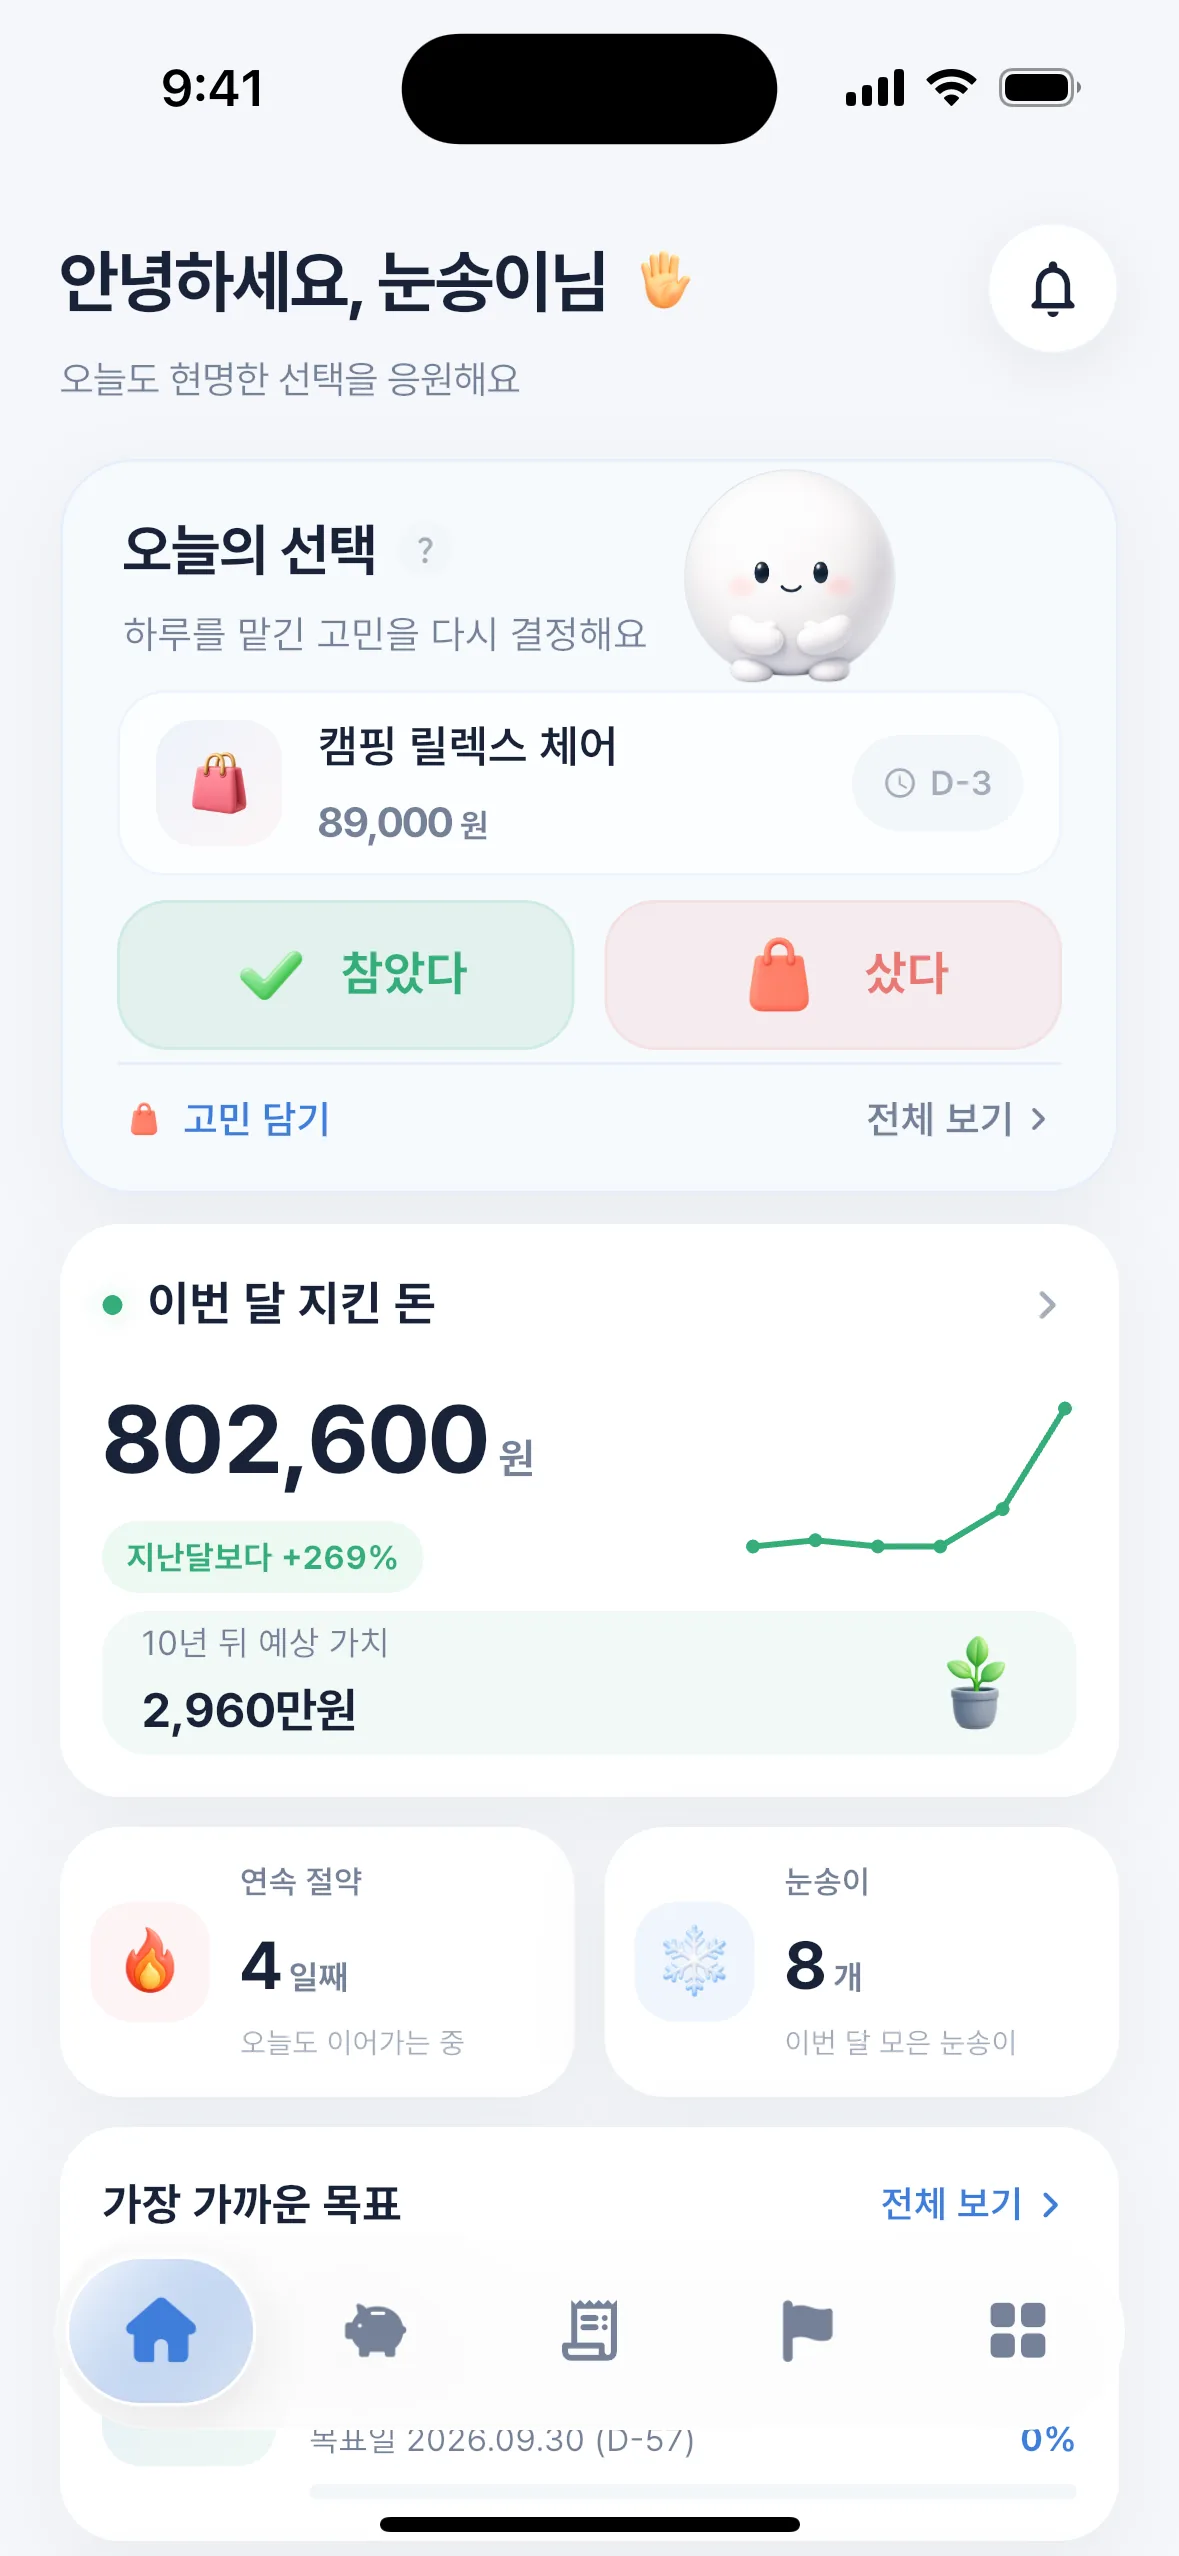
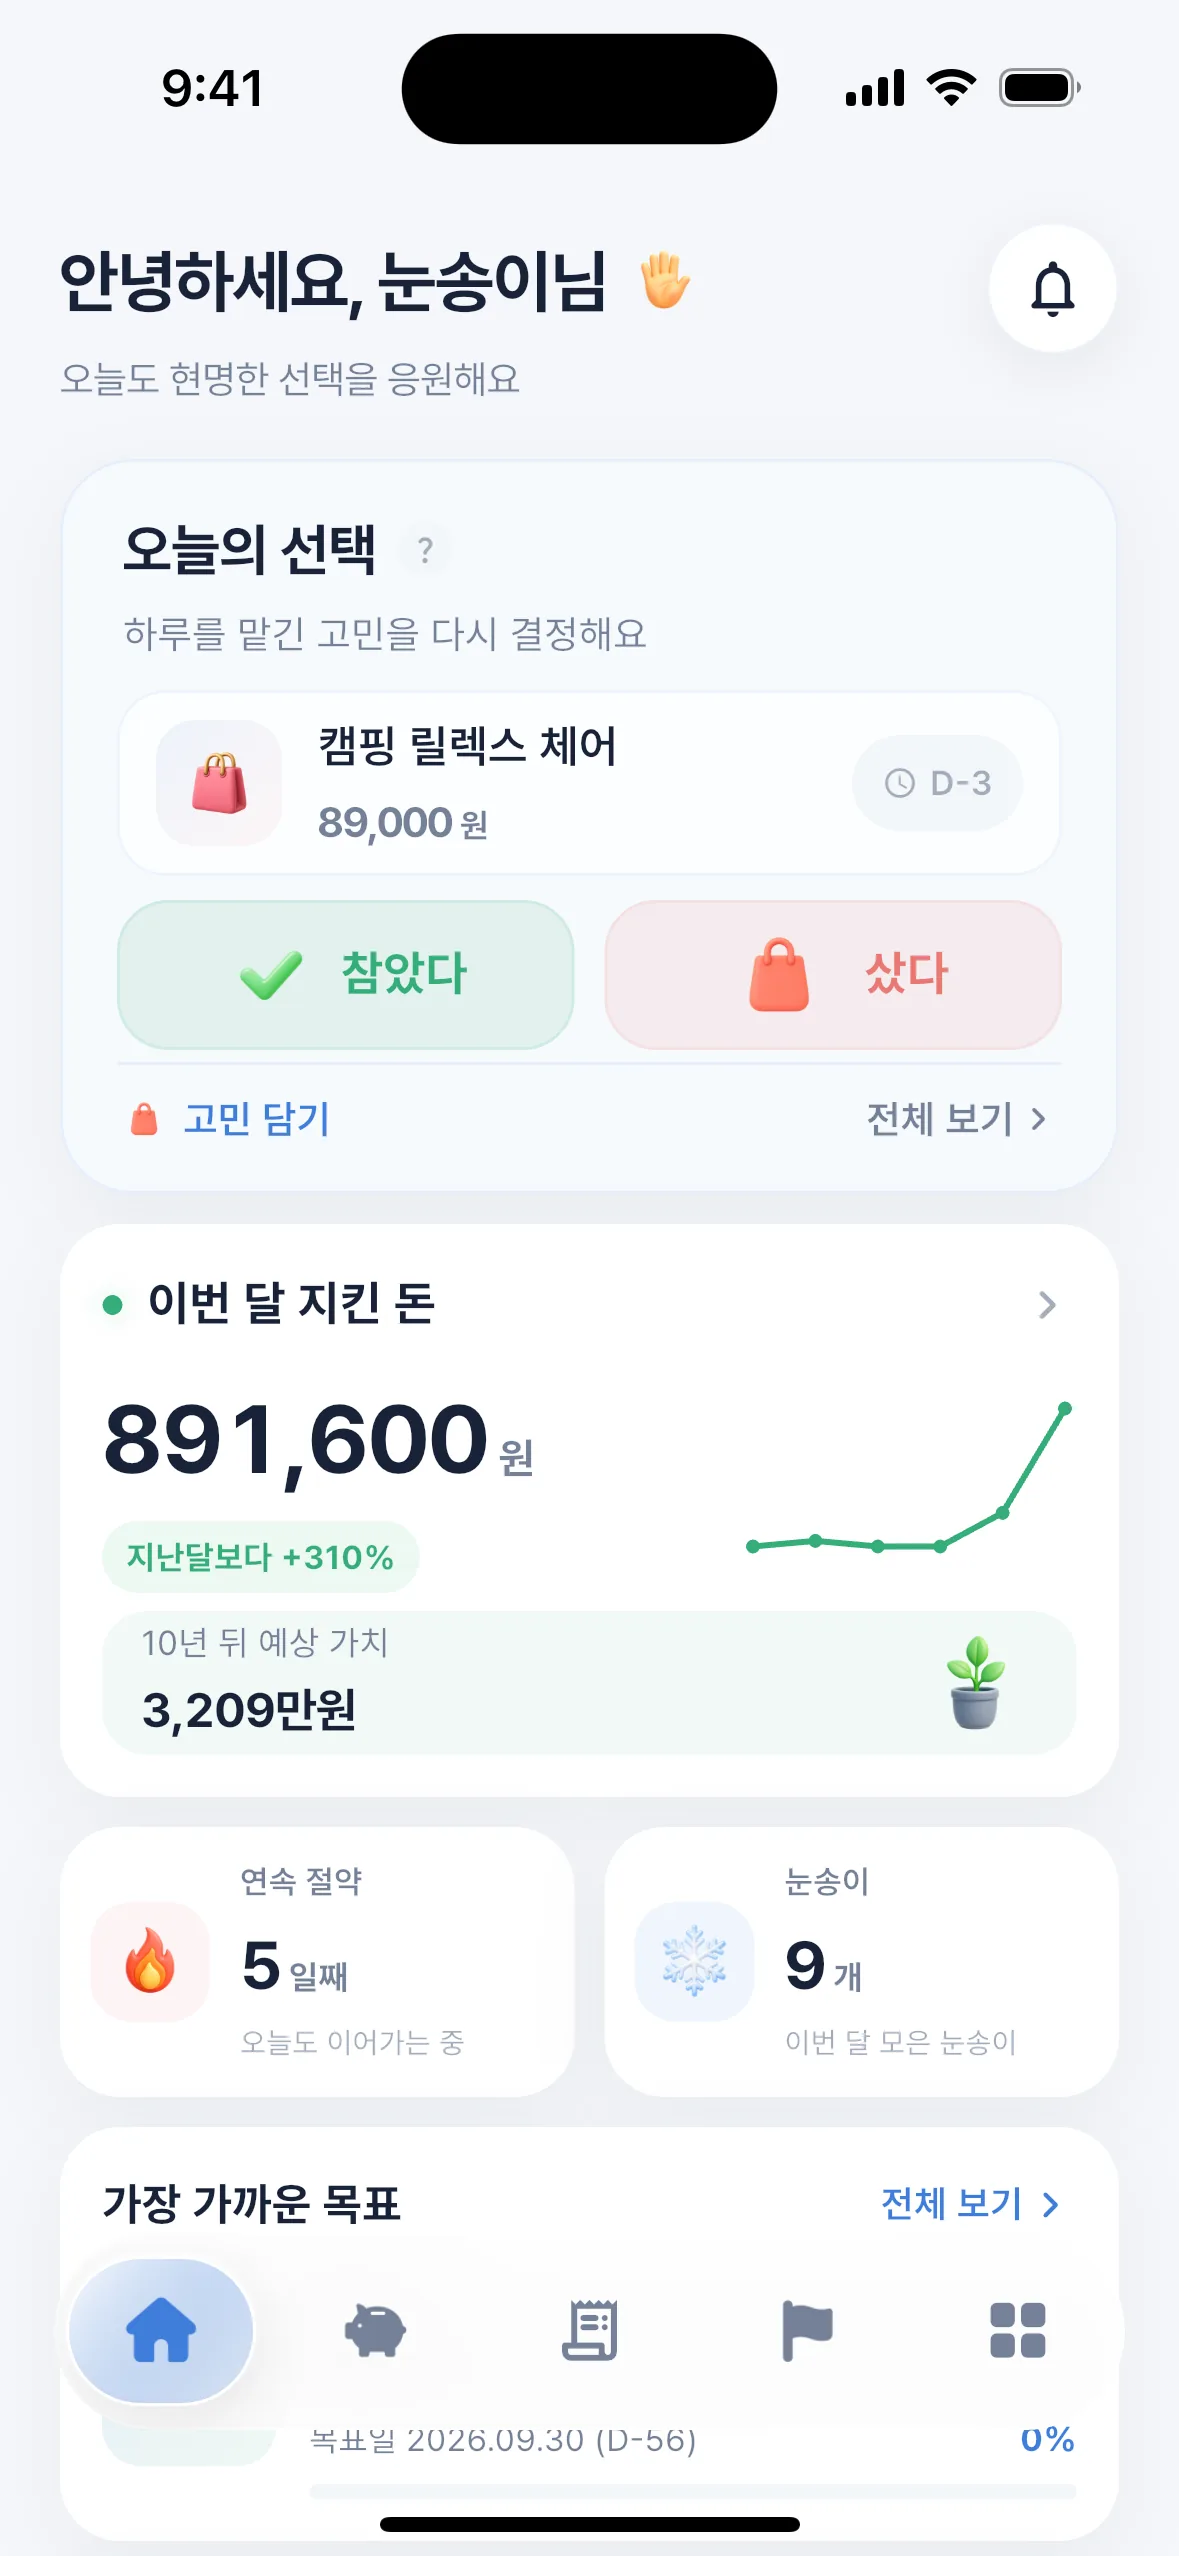
feat: 랜딩 v1.4.0 — 공유 가계부 SHARE 카드 + 실캡처 갱신
- journey 4번째 카드 SHARE(피치 톤 신설): 초대코드·지출수입 합산·기록 알림,
  2인 장부 실캡처(멤버 칩·귀속 뱃지, 초대코드는 블러)
- RECORD 카드: '어제 스벅 6500 카드' 자연어·수입·결제수단 반영
- 히어로 대시보드 재캡처 (오늘의 선택 마스코트 제거 반영)
- 버전 문구·메타·JSON-LD 전부 1.4.0

diff --git a/landing.jsx b/landing.jsx
@@ -1,4 +1,4 @@
-// landing.jsx — 눈덩이 v1.3.0 editorial landing page
+// landing.jsx — 눈덩이 v1.4.0 editorial landing page
 
 const V2_ASSET = 'assets/images/v2';
 
@@ -44,7 +44,7 @@ function StoreBadge({ kind, where = 'unknown', light = false }) {
   );
 }
 
-function VersionPill({ children = 'v1.3.0 · 지금 사용 가능', dark = false }) {
+function VersionPill({ children = 'v1.4.0 · 지금 사용 가능', dark = false }) {
   return <span className={`version-pill ${dark ? 'is-dark' : ''}`}><i aria-hidden="true" />{children}</span>;
 }
 
@@ -125,10 +125,10 @@ function Hero() {
           </div>
         </div>
 
-        <div className="hero-stage" aria-label="눈덩이 v1.3.0 홈 화면">
+        <div className="hero-stage" aria-label="눈덩이 v1.4.0 홈 화면">
           <PhoneShot
             src="dashboard-iphone15pro.webp"
-            alt="실제 아이폰에서 실행 중인 눈덩이 v1.3.0 홈 대시보드"
+            alt="실제 아이폰에서 실행 중인 눈덩이 v1.4.0 홈 대시보드"
             eager
             nativeStatusBar
             className="hero-phone"
@@ -162,8 +162,8 @@ const JOURNEY = [
     step: '02',
     label: 'RECORD',
     title: <>쓴 돈도 지킨 돈도,<br />가볍게 한 줄로.</>,
-    description: '복잡한 가계부 대신 말하듯 기록하세요. 예산과 소비 흐름은 눈덩이가 보기 쉽게 모아드려요.',
-    tags: ['한 줄 지출', '예산 · 고정지출', '달력 · 소비 인사이트'],
+    description: '"어제 스벅 6500 카드"처럼 말하듯 기록하세요. 수입까지 더해 예산과 소비 흐름을 한눈에 모아드려요.',
+    tags: ['한 줄 입력 · 결제수단', '수입 · 예산 · 고정지출', '달력 · 소비 인사이트'],
     image: 'expense-insight.webp',
     alt: '월 지출과 소비 흐름을 보여주는 인사이트 화면',
     tone: 'mint',
@@ -178,6 +178,16 @@ const JOURNEY = [
     alt: '절약한 돈의 미래 가치를 계산하는 시뮬레이터 화면',
     tone: 'lavender',
   },
+  {
+    step: '04',
+    label: 'SHARE',
+    title: <>가계부는,<br />같이 쓸 때 완성.</>,
+    description: '초대코드 하나로 커플·가족이 지출과 수입을 한 장부에 모아요. 누가 기록하면 서로의 폰에 알림이 도착해요.',
+    tags: ['초대코드 입장', '지출 · 수입 합산', '기록 알림'],
+    image: 'ledger.webp',
+    alt: '커플이 함께 쓰는 공유 가계부 화면',
+    tone: 'peach',
+  },
 ];
 
 function V2Showcase() {
@@ -186,8 +196,8 @@ function V2Showcase() {
       <div className="section-inner">
         <SectionHeader
           eyebrow="ONE BETTER FLOW"
-          title={<>마음을 다그치지 않고,<br />선택을 바꾸는 세 장면.</>}
-          description="눈덩이는 무조건 아끼라고 말하지 않아요. 한 번 더 생각하고, 선명하게 기록하고, 더 먼 미래와 비교하도록 돕습니다."
+          title={<>마음을 다그치지 않고,<br />선택을 바꾸는 네 장면.</>}
+          description="눈덩이는 무조건 아끼라고 말하지 않아요. 한 번 더 생각하고, 선명하게 기록하고, 더 먼 미래와 비교하고, 함께 씁니다."
         />
         <div className="journey-list">
           {JOURNEY.map((item, index) => (
@@ -243,7 +253,7 @@ function ExpensePreview() {
     <section id="quick" className="section quick-section">
       <div className="section-inner quick-grid">
         <div className="quick-copy">
-          <VersionPill dark>v1.3.0 · 더 빨라진 기록</VersionPill>
+          <VersionPill dark>v1.4.0 · 더 빨라진 기록</VersionPill>
           <p className="eyebrow">QUICK INPUT</p>
           <h2>생각이 사라지기 전에,<br />바로 남기세요.</h2>
           <p className="quick-lead">
@@ -316,8 +326,8 @@ function FAQ() {
       a: '사고 싶은 게 생겼을 때 잠시 맡겨두고 다시 결정하는 소비 습관 앱입니다. 참아낸 소비는 절약 기록과 미래 가치로 이어지고, 지출·목표·시뮬레이터·에코 커뮤니티를 함께 제공합니다.',
     },
     {
-      q: 'v1.3.0은 지금 바로 사용할 수 있나요?',
-      a: '네. v1.3.0이 App Store와 Google Play에 배포 완료되었습니다. 각 스토어에서 최신 버전으로 업데이트해 사용할 수 있습니다.',
+      q: 'v1.4.0은 지금 바로 사용할 수 있나요?',
+      a: '네. v1.4.0이 App Store와 Google Play에 배포 완료되었습니다. 각 스토어에서 최신 버전으로 업데이트해 사용할 수 있습니다.',
     },
     {
       q: '소비를 못 하게 막는 앱인가요?',
@@ -417,7 +427,7 @@ function Footer() {
             <span><strong>눈덩이</strong><small>snowball.</small></span>
           </a>
           <p>오늘의 소비를 미래의 선택과 비교하는 소비 습관 플래너.</p>
-          <span className="footer-version">APP VERSION 1.3.0</span>
+          <span className="footer-version">APP VERSION 1.4.0</span>
         </div>
         <FooterColumn title="둘러보기" links={[["사용 흐름", '#journey'], ['빠른 기록', '#quick'], ['주요 기능', '#features']]} />
         <FooterColumn title="지원" links={[["자주 묻는 질문", '#faq'], ['문의하기', 'mailto:poxy1535@gmail.com']]} />

diff --git a/index.html b/index.html
@@ -5,18 +5,18 @@
 <meta name="viewport" content="width=device-width, initial-scale=1">
 <meta name="theme-color" content="#F3F6FA">
 <title>눈덩이 — 돈을 쓰기 전과 후, 선택을 더 똑똑하게</title>
-<meta name="description" content="사기 전에는 한 번 더 생각하고, 고민·지출·절약은 빠르게 기록하고, 참아낸 돈은 미래의 목표로. 소비와 절약을 한눈에 보는 소비 습관 앱 눈덩이 v1.3.0.">
+<meta name="description" content="사기 전에는 한 번 더 생각하고, 고민·지출·절약은 빠르게 기록하고, 참아낸 돈은 미래의 목표로. 소비와 절약을 한눈에 보는 소비 습관 앱 눈덩이 v1.4.0.">
 
 <link rel="canonical" href="https://baejinseop.github.io/nundeongyi-page/">
 <link rel="preload" as="image" href="assets/images/v2/dashboard-iphone15pro.webp" type="image/webp" fetchpriority="high">
 
 <!-- OG / Twitter -->
 <meta property="og:title" content="눈덩이 — 돈을 쓰기 전과 후, 선택을 더 똑똑하게">
-<meta property="og:description" content="눈덩이 v1.3.0 출시. 고민·지출·절약을 더 빠르게 기록하고, 오늘의 작은 선택을 미래의 목표로 이어보세요.">
+<meta property="og:description" content="눈덩이 v1.4.0 출시. 고민·지출·절약을 더 빠르게 기록하고, 오늘의 작은 선택을 미래의 목표로 이어보세요.">
 <meta property="og:image" content="https://baejinseop.github.io/nundeongyi-page/assets/images/v2/og-v2.png">
 <meta property="og:image:width" content="1200">
 <meta property="og:image:height" content="630">
-<meta property="og:image:alt" content="눈덩이 v1.3.0 — 돈을 쓰기 전과 후, 선택을 더 똑똑하게">
+<meta property="og:image:alt" content="눈덩이 v1.4.0 — 돈을 쓰기 전과 후, 선택을 더 똑똑하게">
 <meta property="og:url" content="https://baejinseop.github.io/nundeongyi-page/">
 <meta property="og:type" content="website">
 <meta property="og:site_name" content="눈덩이 (Nundeongyi)">
@@ -37,7 +37,7 @@
   "url": "https://baejinseop.github.io/nundeongyi-page/",
   "image": "https://baejinseop.github.io/nundeongyi-page/assets/images/v2/og-v2.png",
   "applicationCategory": "ProductivityApplication",
-  "softwareVersion": "1.3.0",
+  "softwareVersion": "1.4.0",
   "operatingSystem": "iOS 15 이상, Android 7.0 이상",
   "inLanguage": "ko",
   "offers": { "@type": "Offer", "price": "0", "priceCurrency": "KRW" },
@@ -72,7 +72,7 @@
   <div class="noscript-message">
     <img src="assets/images/v2/app-icon.webp" alt="눈덩이" width="64" height="64">
     <h1>오늘의 작은 선택이 내일의 눈덩이가 되도록.</h1>
-    <p>눈덩이 v1.3.0은 App Store와 Google Play에서 무료로 시작할 수 있습니다.</p>
+    <p>눈덩이 v1.4.0은 App Store와 Google Play에서 무료로 시작할 수 있습니다.</p>
     <p><a href="https://apps.apple.com/app/id6778849270">App Store</a> · <a href="https://play.google.com/store/apps/details?id=com.snowball.nundeongyi">Google Play</a></p>
   </div>
 </noscript>

diff --git a/styles.css b/styles.css
@@ -323,6 +323,7 @@ button { font: inherit; }
 .journey-card.is-blue { --card-bg: #e7f0fd; --card-accent: #3478db; }
 .journey-card.is-mint { --card-bg: #e5f4ed; --card-accent: #29906a; }
 .journey-card.is-lavender { --card-bg: #efecfa; --card-accent: #7464b7; }
+.journey-card.is-peach { --card-bg: #fdeee7; --card-accent: #d0704a; }
 .journey-meta { display: flex; align-items: center; gap: 11px; color: var(--card-accent); }
 .journey-meta span { width: 33px; height: 33px; display: grid; place-items: center; border: 1px solid currentColor; border-radius: 50%; font-size: 10px; font-weight: 800; }
 .journey-meta small { font-size: 10px; font-weight: 850; letter-spacing: .18em; }

diff --git a/convert_landing_shots.py b/convert_landing_shots.py
@@ -22,6 +22,7 @@ MAPPING = {
     "expense-insight.png": "expense-insight.webp",
     "expense-add.png": "expense-add.webp",
     "simulator.png": "simulator.webp",
+    "ledger.png": "ledger.webp",
 }
 
 
